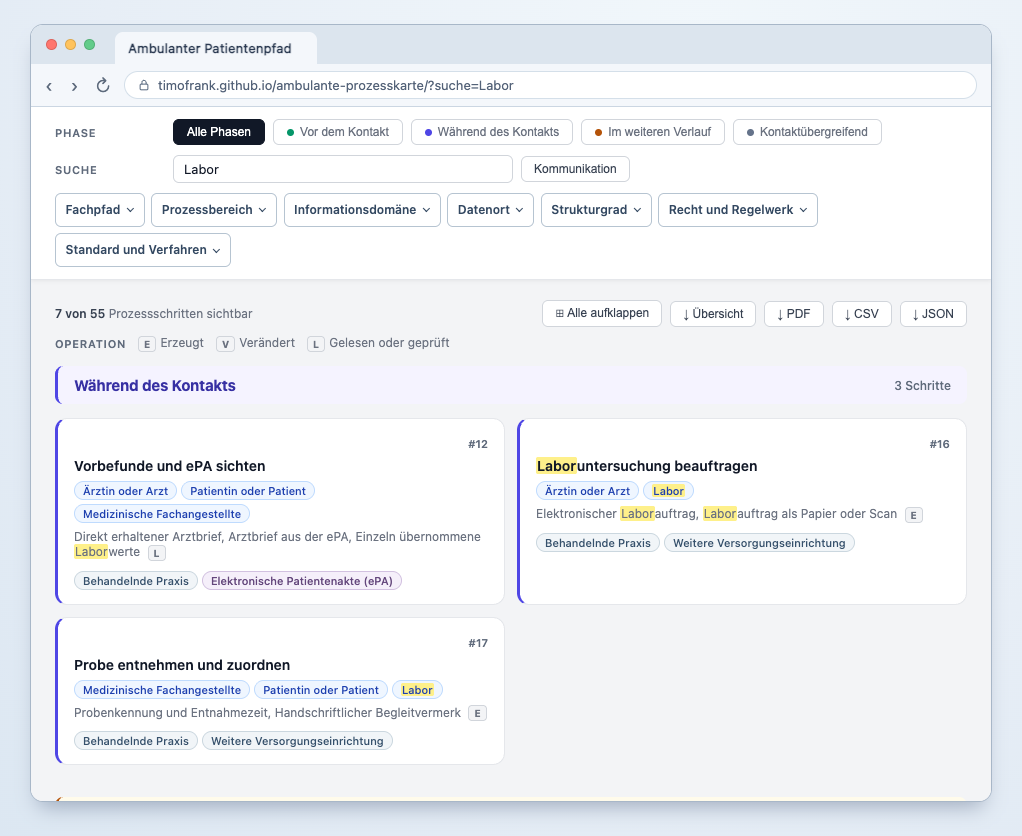
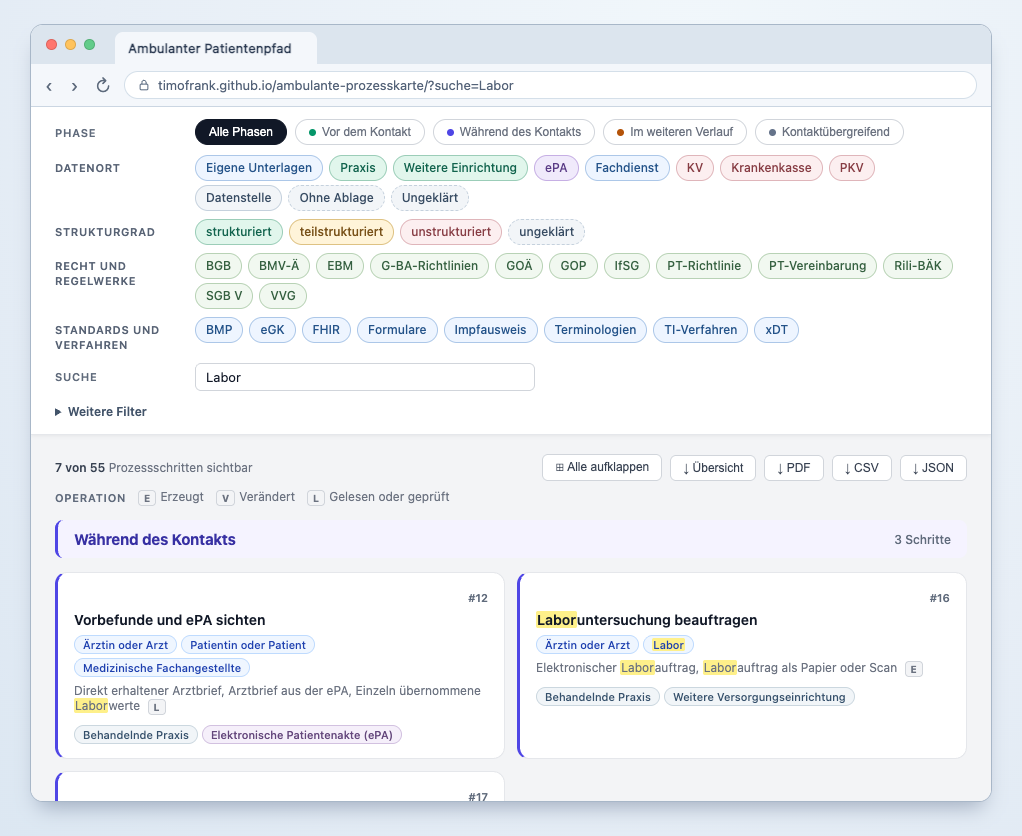
Filter der ambulanten Prozesskarte wieder als farbige Pillen anzeigen

diff --git a/kartenmodell.js b/kartenmodell.js
@@ -17,7 +17,7 @@ const rooms = {
 };
 const facetLabels = {
   setting: 'Fachpfad', bereich: 'Prozessbereich', art: 'Informationsdomäne',
-  dr: 'Datenort', str: 'Strukturgrad', law: 'Recht und Regelwerk', std: 'Standard und Verfahren'
+  dr: 'Datenort', str: 'Strukturgrad', law: 'Recht und Regelwerke', std: 'Standards und Verfahren'
 };
 const uniqueValues = values => [...new Set(values)].sort((a, b) => a.localeCompare(b, 'de'));
 
@@ -80,54 +80,65 @@ function objectDetails(step, search) {
     + '</ul></section>';
 }
 
-function installFacets() {
-  const container = byId('facet-controls');
-  for (const [group, values] of Object.entries(available)) {
-    const menu = document.createElement('details');
-    menu.id = 'facet-' + group;
-    menu.className = 'facet';
-    const summary = document.createElement('summary');
-    summary.innerHTML = escapeText(facetLabels[group]) + '<span class="facet-value"></span>';
-    const panel = document.createElement('div');
-    panel.className = 'facet-options';
-    panel.setAttribute('role', 'group');
-    panel.setAttribute('aria-label', facetLabels[group]);
-    for (const value of values) {
-      const label = document.createElement('label');
-      const input = document.createElement('input');
-      input.type = 'checkbox';
-      input.value = value;
-      input.addEventListener('change', () => {
-        if (input.checked) selected[group].add(value);
-        else selected[group].delete(value);
-        updateCards();
-      });
-      const caption = document.createElement('span');
-      caption.textContent = facetName(group, value);
-      const count = document.createElement('span');
-      count.className = 'facet-count';
-      label.append(input, caption, count);
-      panel.append(label);
+// Kurzformen gelten nur für die schmalen Filterpillen.
+const shortLabels = {
+  dr: {
+    person: 'Eigene Unterlagen', praxis: 'Praxis', partner: 'Weitere Einrichtung',
+    epa: 'ePA', kv: 'KV', kasse: 'Krankenkasse', pkv: 'PKV',
+    ohne: 'Ohne Ablage', offen: 'Ungeklärt'
+  },
+  law: {
+    'Psychotherapie-Richtlinie': 'PT-Richtlinie',
+    'Psychotherapie-Vereinbarung': 'PT-Vereinbarung'
+  },
+  std: {'Bundeseinheitlicher Medikationsplan': 'BMP'}
+};
+const primaryFacets = ['dr', 'str', 'law', 'std'];
+const secondaryFacets = ['bereich', 'art', 'setting'];
+
+function facetRow(group) {
+  const row = document.createElement('div');
+  row.id = 'facet-' + group;
+  row.className = 'facet-row';
+  row.setAttribute('role', 'group');
+
+  const heading = document.createElement('span');
+  heading.id = row.id + '-label';
+  heading.className = 'filter-label';
+  heading.textContent = facetLabels[group];
+  row.setAttribute('aria-labelledby', heading.id);
+
+  const options = document.createElement('div');
+  options.className = 'facet-options';
+  for (const value of available[group]) {
+    const button = document.createElement('button');
+    button.type = 'button';
+    button.className = 'facet-pill';
+    button.value = value;
+    const fullName = facetName(group, value);
+    const label = shortLabels[group]?.[value] || fullName;
+    button.textContent = label;
+    if (label !== fullName) {
+      button.setAttribute('aria-label', fullName.includes(label) ? fullName : label + ', ' + fullName);
     }
-    menu.append(summary, panel);
-    container.append(menu);
-    menu.addEventListener('toggle', () => {
-      if (!menu.open) return;
-      container.querySelectorAll('details[open]').forEach(other => { if (other !== menu) other.open = false; });
-      menu.classList.toggle('align-end', menu.getBoundingClientRect().left + panel.offsetWidth > window.innerWidth - 12);
+    button.addEventListener('click', () => {
+      if (selected[group].has(value)) selected[group].delete(value);
+      else selected[group].add(value);
+      updateCards();
     });
+    options.append(button);
   }
-  document.addEventListener('click', e => container.querySelectorAll('details[open]').forEach(menu => {
-    if (!menu.contains(e.target)) menu.open = false;
-  }));
-  container.addEventListener('keydown', e => {
-    if (e.key !== 'Escape') return;
-    const menu = e.target.closest('details[open]');
-    if (menu) { menu.open = false; menu.querySelector('summary').focus(); }
-  });
+  row.append(heading, options);
+  return row;
+}
+
+function installFacets() {
+  byId('facet-controls').append(...primaryFacets.map(facetRow));
+  byId('facet-secondary').append(...secondaryFacets.map(facetRow));
   byId('reset-extra').addEventListener('click', () => {
     clearDimensions();
     updateCards();
+    byId('facet-controls').querySelector('button').focus();
   });
 }
 
@@ -138,19 +149,20 @@ function clearDimensions() {
 // Counts refer to distinct steps. Other filters still apply to each candidate option.
 function updateFacets() {
   const candidates = PROZESSE.filter(step => (phase === 'alle' || step.zeiten.includes(phase)) && matchesSearch(step));
-  let hasSelection = false;
   for (const [group, choices] of Object.entries(selected)) {
-    const menu = byId('facet-' + group);
-    const names = [...choices].map(value => facetName(group, value));
-    menu.classList.toggle('applied', Boolean(names.length));
-    menu.querySelector('.facet-value').textContent = names.length ? names.join(', ') : '';
-    if (names.length) hasSelection = true;
-    for (const input of menu.querySelectorAll('input')) {
-      input.checked = choices.has(input.value);
-      input.parentElement.querySelector('.facet-count').textContent = candidates.filter(step => matchesDimensions(step, group, input.value)).length;
+    for (const button of byId('facet-' + group).querySelectorAll('button')) {
+      const value = button.value;
+      const count = candidates.filter(step => matchesDimensions(step, group, value)).length;
+      const description = count === 1 ? '1 passender Schritt' : count + ' passende Schritte';
+      button.setAttribute('aria-pressed', String(choices.has(value)));
+      button.setAttribute('aria-description', description);
+      button.title = facetName(group, value) + ' · ' + description;
     }
   }
-  byId('reset-extra').hidden = !hasSelection;
+  const secondaryCount = secondaryFacets.reduce((sum, group) => sum + selected[group].size, 0);
+  byId('more-count').textContent = secondaryCount ? '(' + secondaryCount + ' aktiv)' : '';
+  byId('more-count').hidden = secondaryCount === 0;
+  byId('reset-extra').hidden = !Object.values(selected).some(choices => choices.size);
 }
 
 function matrixTable(printing = false) {
@@ -199,6 +211,7 @@ function readEntry() {
       if (key) selected[group].add(key);
     }
   }
+  byId('more-filters').open = secondaryFacets.some(group => selected[group].size > 0);
   const startPhase = entry.get('phase');
   if (Object.hasOwn(phases, startPhase)) phase = startPhase;
   byId('phase-row').querySelectorAll('button').forEach(button => setPressed(button, button.dataset.phase === phase));

diff --git a/fachfilter.css b/fachfilter.css
@@ -1,22 +1,89 @@
-/* Fachfilter und Objektvarianten für beide Kartenansichten. */
-.facet-bar { display: flex; align-items: center; flex-wrap: wrap; gap: .5rem; }
-#facet-controls { display: flex; flex-wrap: wrap; gap: .4rem; align-items: flex-start; }
-.facet { position: relative; }
-.facet summary, .facet-reset { display: flex; gap: .45rem; align-items: center; min-height: 34px; padding: .3rem .6rem; font-family: inherit; font-size: 12px; font-weight: 600; line-height: 1.35; cursor: pointer; list-style: none; color: #334861; background: #fff; border: 1px solid #b6c4d1; border-radius: 6px; }
-.facet summary::-webkit-details-marker { display: none; }
-.facet summary::after { content: ''; display: inline-block; flex-shrink: 0; width: .4em; height: .4em; margin: 0 .15em .2em auto; border: solid currentColor; border-width: 0 1.5px 1.5px 0; transform: rotate(45deg); }
-.facet[open] summary::after { transform: rotate(225deg); margin-bottom: -.15em; }
-.facet summary:focus-visible, .facet-reset:focus-visible, .facet-options label:focus-within { outline: 2px solid #376799; outline-offset: 2px; }
-.facet.applied summary, .facet[open] summary { background: #edf4fc; border-color: #698bb2; color: #18395e; }
-.facet-value { max-width: 11rem; overflow: hidden; white-space: nowrap; text-overflow: ellipsis; font-weight: 400; }
-.facet-value:empty { display: none; }
-.facet-options { z-index: 25; position: absolute; top: calc(100% + 4px); left: 0; width: max-content; min-width: 100%; max-width: min(22rem, 84vw); max-height: min(20rem, 45vh); overflow-y: auto; overscroll-behavior: contain; box-sizing: border-box; padding: .35rem; border: 1px solid #b6c4d1; border-radius: 8px; background: #fff; box-shadow: 0 5px 16px #20344b22; }
-.facet.align-end .facet-options { left: auto; right: 0; }
-.facet-options label { display: grid; grid-template-columns: 16px minmax(0, 1fr) auto; align-items: center; gap: .55rem; padding: .35rem .45rem; min-height: 30px; border-radius: 4px; font: inherit; font-size: .83rem; color: #213448; cursor: pointer; }
-.facet-options input { width: 15px; height: 15px; accent-color: #36659a; }
-.facet-options label:hover, .facet-options label:has(:checked) { background: #edf4fc; }
-.facet-count { font-variant-numeric: tabular-nums; font-size: .75rem; color: #546579; margin-left: .25rem; }
-.facet-reset { border-color: transparent; color: #325783; text-decoration: underline; }
+/* Die Filter folgen in beiden Ansichten der Reihenfolge der stationären Vorlage. */
+.toolbar { --label-width: 132px; }
+.toolbar .filter-row > .filter-label { min-width: var(--label-width); }
+.toolbar .phase-tab { border-radius: 999px; }
+#facet-controls, #facet-secondary { display: grid; gap: 8px; }
+.facet-row {
+  display: grid;
+  grid-template-columns: var(--label-width) minmax(0, 1fr);
+  align-items: baseline;
+  gap: 8px;
+}
+.facet-row .filter-label {
+  min-width: 0;
+  color: #586375;
+  font-family: inherit;
+  font-size: 11px;
+  font-weight: 600;
+  line-height: 1.35;
+  letter-spacing: .055em;
+  text-transform: uppercase;
+}
+.facet-options { display: flex; flex-wrap: wrap; gap: 4px 6px; }
+.facet-pill {
+  --ink: #384c63;
+  --tint: #f2f5f8;
+  --edge: #c5d1dd;
+  max-width: 100%;
+  min-height: 26px;
+  padding: 3px 10px;
+  border: 1px solid var(--edge);
+  border-radius: 999px;
+  color: var(--ink);
+  background: var(--tint);
+  font: 500 12px/1.35 -apple-system, BlinkMacSystemFont, "Segoe UI", sans-serif;
+  cursor: pointer;
+}
+#facet-dr [value=person], #facet-dr [value=dienst], #facet-std .facet-pill {
+  --ink: #245389; --tint: #eef5ff; --edge: #acc7e8;
+}
+#facet-dr [value=praxis], #facet-dr [value=partner], #facet-str [value=strukturiert] {
+  --ink: #11634d; --tint: #e1f6ec; --edge: #9bcdb8;
+}
+#facet-dr [value=epa] { --ink: #5a3b86; --tint: #f0eafb; --edge: #c6afe4; }
+#facet-dr [value=kv], #facet-dr [value=kasse], #facet-dr [value=pkv], #facet-str [value=unstrukturiert] {
+  --ink: #873d44; --tint: #fceff0; --edge: #dfb5ba;
+}
+#facet-dr [value=ohne], #facet-dr [value=offen], #facet-str [value="ungeklärt"] { border-style: dashed; }
+#facet-str [value=teilstrukturiert] { --ink: #79521a; --tint: #fff4d9; --edge: #dec283; }
+#facet-law .facet-pill { --ink: #366141; --tint: #f1f8f0; --edge: #b8d2b5; }
+.facet-pill:hover { border-color: var(--ink); }
+.facet-pill[aria-pressed=true] {
+  border: 1px solid var(--ink);
+  background: var(--ink);
+  color: white;
+  text-decoration: underline;
+  text-underline-offset: 3px;
+}
+.facet-pill:focus-visible, #more-filters summary:focus-visible, .facet-reset:focus-visible {
+  outline: 2px solid #2b4b8a;
+  outline-offset: 2px;
+}
+.facet-tools { display: flex; gap: 6px 16px; flex-wrap: wrap; align-items: baseline; }
+#more-filters[open] { width: 100%; }
+#more-filters summary, .facet-reset {
+  width: fit-content;
+  padding: 3px 0;
+  color: #43546a;
+  font-family: inherit;
+  font-size: 12px;
+  font-weight: 600;
+  cursor: pointer;
+}
+#more-filters summary:hover, .facet-reset { text-decoration: underline; }
+#more-count { font-weight: 400; }
+#facet-secondary { margin-top: 6px; padding: 9px 0 2px; border-top: 1px solid #e1e6ed; }
+.facet-reset { border: 0; background: transparent; }
+.toolbar:has(#more-filters[open]) { position: static; }
+.workspace .filter-bar { margin: 12px 0 6px; }
+@media (max-width: 680px) {
+  .toolbar .filter-row > .filter-label { min-width: 0; }
+  .facet-row { grid-template-columns: 1fr; gap: 4px; }
+  .facet-options { gap: 4px; }
+  .facet-pill { min-height: 28px; padding: 3px 9px; }
+  #more-filters summary, .facet-reset { min-height: 28px; }
+}
+
 .object-details { margin: .9rem 0 .6rem; }
 .object-details h3 { margin: 0 0 .35rem; font-size: .9rem; }
 .object-details ul { margin: 0; padding: 0; list-style: none; }
@@ -38,18 +105,6 @@
 .phase-uebergreifend { --phase: #51647e; --phase-soft: #f0f4f8; --phase-accent: #879ab0; }
 .phase-section-header.phase-uebergreifend { border-left: 3px solid #879ab0; background: #f0f4f8; }
 .prozess-card.phase-uebergreifend { border-left-color: #879ab0; }
-.workspace .facet-bar { margin-top: .6rem; }
-.workspace #phase-row { grid-template-columns: repeat(4, minmax(0,1fr)); }
-.workspace #phase-row [data-phase=alle] { grid-area: 1 / -2 / 2 / -1; }
-@media (max-width: 850px) {
-  .workspace #phase-row { grid-template-columns: repeat(2, minmax(0,1fr)); }
-  #facet-controls { display: grid; grid-template-columns: repeat(2, minmax(0,1fr)); width: 100%; }
-  .facet { min-width: 0; }
-  .facet summary { min-height: 36px; }
-  .facet-options { min-width: 100%; }
-  .facet:nth-child(even) .facet-options { right: 0; left: auto; }
-  .facet-value { max-width: 40%; }
-}
 @media print {
   .object-details li { break-inside: avoid; }
   .matrix-print thead th:nth-child(n) { width: auto; }

diff --git a/index.html b/index.html
@@ -698,7 +698,6 @@
     .scope-details-body h2:first-child { margin-top: 0; }
     .filter-label, .phase-section-count, .card-nr, .matrix-legende-label, .detail-section-label, .modal-nr, .matrix-table th:first-child { color: #606b7c; }
     .filter-row .search-input { min-width: 0; }
-    #communication-search[aria-pressed=true] { border-color: #536a9a; background: #eaf0fa; color: #1c3874; }
     .main { min-width: 0; }
     .prozess-card { padding: 0; min-width: 0; overflow-wrap: anywhere; }
     .card-trigger { appearance: none; width: 100%; padding: 14px 16px; color: inherit; background: none; border: 0; border-radius: inherit; font: inherit; cursor: pointer; text-align: left; }
@@ -778,7 +777,7 @@
       .print-metadata { margin: 6px 0 !important; }
     }
   </style>
-<link rel="stylesheet" href="fachfilter.css?modell=2">
+<link rel="stylesheet" href="fachfilter.css?modell=3">
 </head>
 <body>
   <header class="page-header">
@@ -794,7 +793,7 @@
         <h2>Kommunikation in der Praxissoftware</h2>
         <p>Die Kommunikationsbeispiele zeigen, was eine Person erlebt und wer das Anliegen im Team übernimmt. „Produktbeispiel“ verweist auf eine dokumentierte Funktion eines Praxisverwaltungssystems (PVS). „Spezifiziert“ verweist auf technische Vorgaben für die genannte Anwendung. Die Gestaltungsvorschläge stammen aus diesem Projekt. Bei Übergaben zwischen Systemen zeigen sie, was die gematik, die KBV und die Hersteller gemeinsam klären könnten. <a href="https://fachportal.gematik.de/zielgruppen/primaersystemhersteller" target="_blank" rel="noopener">gematik zu Schnittstellen für Primärsysteme</a></p>
         <h2>Was die Filter zeigen</h2>
-        <p>Der Prozessbereich beschreibt die Aufgabe im Versorgungsablauf. Die Informationsdomäne benennt die Art der Information, etwa Befund oder Termin. Jede Objektvariante zeigt, wo die Information vorliegt und ob ihre Inhalte als einzelne Felder auslesbar sind. Ein strukturierter Befund und ein Scan können deshalb verschiedene Treffer ergeben. Die Zahlen im Filter zählen jeden passenden Schritt einmal.</p>
+        <p>Der Prozessbereich beschreibt die Aufgabe im Versorgungsablauf. Die Informationsdomäne benennt die Art der Information, etwa Befund oder Termin. Jede Objektvariante zeigt, wo die Information vorliegt und ob ihre Inhalte als einzelne Felder auslesbar sind. Ein strukturierter Befund und ein Scan können deshalb verschiedene Treffer ergeben. Wählst du mehrere Datenorte, genügt ein passender Ort. Kombinierst du Datenort und Strukturgrad, müssen beide zur selben Information passen. In der Trefferzahl zählt jeder Schritt einmal.</p>
         <p>Ein Schritt kann zu mehreren Kontaktphasen gehören. Die Gesamtübersicht ordnet ihn nach seinem Hauptbezug ein. „Kontaktübergreifend“ erfasst Arbeit über einzelne Kontakte hinweg. Telefon, Messenger und Portale sind mögliche Kommunikationswege. Ein ePA-Eintrag oder eine andere Ablage wird für die jeweilige Variante gesondert angegeben. Der EHDS bildet einen europäischen Rechtsrahmen. Die fachlichen und rechtlichen Belege stehen am jeweiligen Schritt.</p>
         <div class="license">Viewer nach dem <a href="https://github.com/oeme-github/INA-ePA-und-Patientenportale/tree/c2d411a2d262611ec3d6323689960f9d5f7e6235" target="_blank" rel="noopener">Original von oeme</a>, © 2026 oeme. Für Versorgungsprozesse überarbeitet am 19.11.2026. <a href="LICENSE" target="_blank" rel="noopener">Lizenz EUPL 1.2 oder später</a>.</div>
       </div>
@@ -806,9 +805,18 @@
   </nav>
   <section class="toolbar" aria-label="Prozessschritte filtern">
     <div class="filter-row" id="phase-row" role="group" aria-label="Phase"><span class="filter-label">Phase</span></div>
-    <div class="filter-row"><label class="filter-label" for="search-input">Suche</label><input class="search-input" type="search" id="search-input" placeholder="Prozessschritte suchen">
-      <button id="communication-search" type="button" class="btn-export" aria-pressed="false" aria-label="Suchthema Kommunikation" aria-controls="karten">Kommunikation</button></div>
-    <div class="facet-bar"><div id="facet-controls" aria-label="Fachfilter"></div><button id="reset-extra" class="facet-reset" type="button" hidden>Fachfilter zurücksetzen</button></div>
+    <div id="facet-controls"></div>
+    <div class="filter-row">
+      <label class="filter-label" for="search-input">Suche</label>
+      <input class="search-input" type="search" id="search-input" placeholder="z. B. Kommunikation oder Labor">
+    </div>
+    <div class="facet-tools">
+      <details id="more-filters">
+        <summary>Weitere Filter <span id="more-count" hidden></span></summary>
+        <div id="facet-secondary"></div>
+      </details>
+      <button id="reset-extra" class="facet-reset" type="button" hidden>Fachfilter zurücksetzen</button>
+    </div>
   </section>
   <main class="main">
     <div class="export-bar" id="exports">
@@ -830,7 +838,7 @@
   </dialog>
   <section id="print-content"></section>
   <script src="karten.js?modell=2"></script>
-  <script src="kartenmodell.js?modell=2"></script>
+  <script src="kartenmodell.js?modell=3"></script>
   <script>
     'use strict';
 
@@ -950,7 +958,6 @@
     }
 
     function updateCards(focusStep) {
-      setPressed(byId('communication-search'), query.toLocaleLowerCase('de') === 'kommunikation');
       const results = visibleSteps();
       const complete = results.length > 0 && results.every(step => expanded.has(step.nr));
       byId('counter').innerHTML = '<strong>' + results.length + ' von ' + PROZESSE.length + '</strong> Prozessschritten sichtbar';
@@ -1009,11 +1016,6 @@
       byId('search-input').focus();
     });
 
-    byId('communication-search').addEventListener('click', () => {
-      query = query.toLocaleLowerCase('de') === 'kommunikation' ? '' : 'Kommunikation';
-      byId('search-input').value = query;
-      updateCards();
-    });
     byId('search-input').addEventListener('input', event => {
       query = event.target.value.trim();
       updateCards();

diff --git a/README.md b/README.md
@@ -11,7 +11,7 @@ Die Prozesskarte führt 55 ausgewählte Versorgungsschritte in einer Übersicht 
 
 ## Einblick in die Karte
 
-[![Browserfenster mit der geöffneten Prozesskarte. Die Suche nach Labor zeigt den Auftrag, die Probenentnahme und die Freigabe des Befunds.](vorschau/labor.png)](https://timofrank.github.io/ambulante-prozesskarte/?suche=Labor)
+[![Browserfenster mit den Filtern der Prozesskarte. Zur Suche nach Labor sind unter anderem das Sichten von Vorbefunden und der Laborauftrag zu sehen.](vorschau/labor.png)](https://timofrank.github.io/ambulante-prozesskarte/?suche=Labor)
 
 ## So erkundest du die Karte
 
@@ -22,7 +22,7 @@ Wähle eine Phase, wenn dich ein bestimmter Abschnitt rund um den Behandlungskon
 * „eGK“ führt dich zum Versicherungsnachweis. Dort liest du, wann die Praxis die elektronische Gesundheitskarte einliest und wie eine Ersatzbescheinigung helfen kann, wenn die Karte fehlt.
 * Für Formulare eignet sich der Suchbegriff „Muster“. Mit „Muster 6“ findest du Schritte rund um die Überweisung, mit „Muster 10“ den Laborauftrag.
 
-Über den Filter für Fachpfade gelangst du direkt zur [Psychotherapie](https://timofrank.github.io/ambulante-prozesskarte/?fachpfad=Psychotherapie), zur [Privatbehandlung](https://timofrank.github.io/ambulante-prozesskarte/?fachpfad=Privatbehandlung) oder zur [Pathologie](https://timofrank.github.io/ambulante-prozesskarte/?fachpfad=Pathologie). Der Prozessbereich beschreibt die Tätigkeit, die Informationsdomäne den Inhalt. Bei der Privatabrechnung kannst du so unterscheiden, wo die Praxis einzelne Gebührenpositionen erfasst und in welcher Form die Rechnung bei der zahlungspflichtigen Person ankommt.
+Unter „Weitere Filter“ findest du die Fachpfade zur [Psychotherapie](https://timofrank.github.io/ambulante-prozesskarte/?fachpfad=Psychotherapie), zur [Privatbehandlung](https://timofrank.github.io/ambulante-prozesskarte/?fachpfad=Privatbehandlung) oder zur [Pathologie](https://timofrank.github.io/ambulante-prozesskarte/?fachpfad=Pathologie). Der Prozessbereich beschreibt die Tätigkeit, die Informationsdomäne den Inhalt. Bei der Privatabrechnung kannst du so unterscheiden, wo die Praxis einzelne Gebührenpositionen erfasst und in welcher Form die Rechnung bei der zahlungspflichtigen Person ankommt.
 
 ## Herkunft und Einordnung
 
